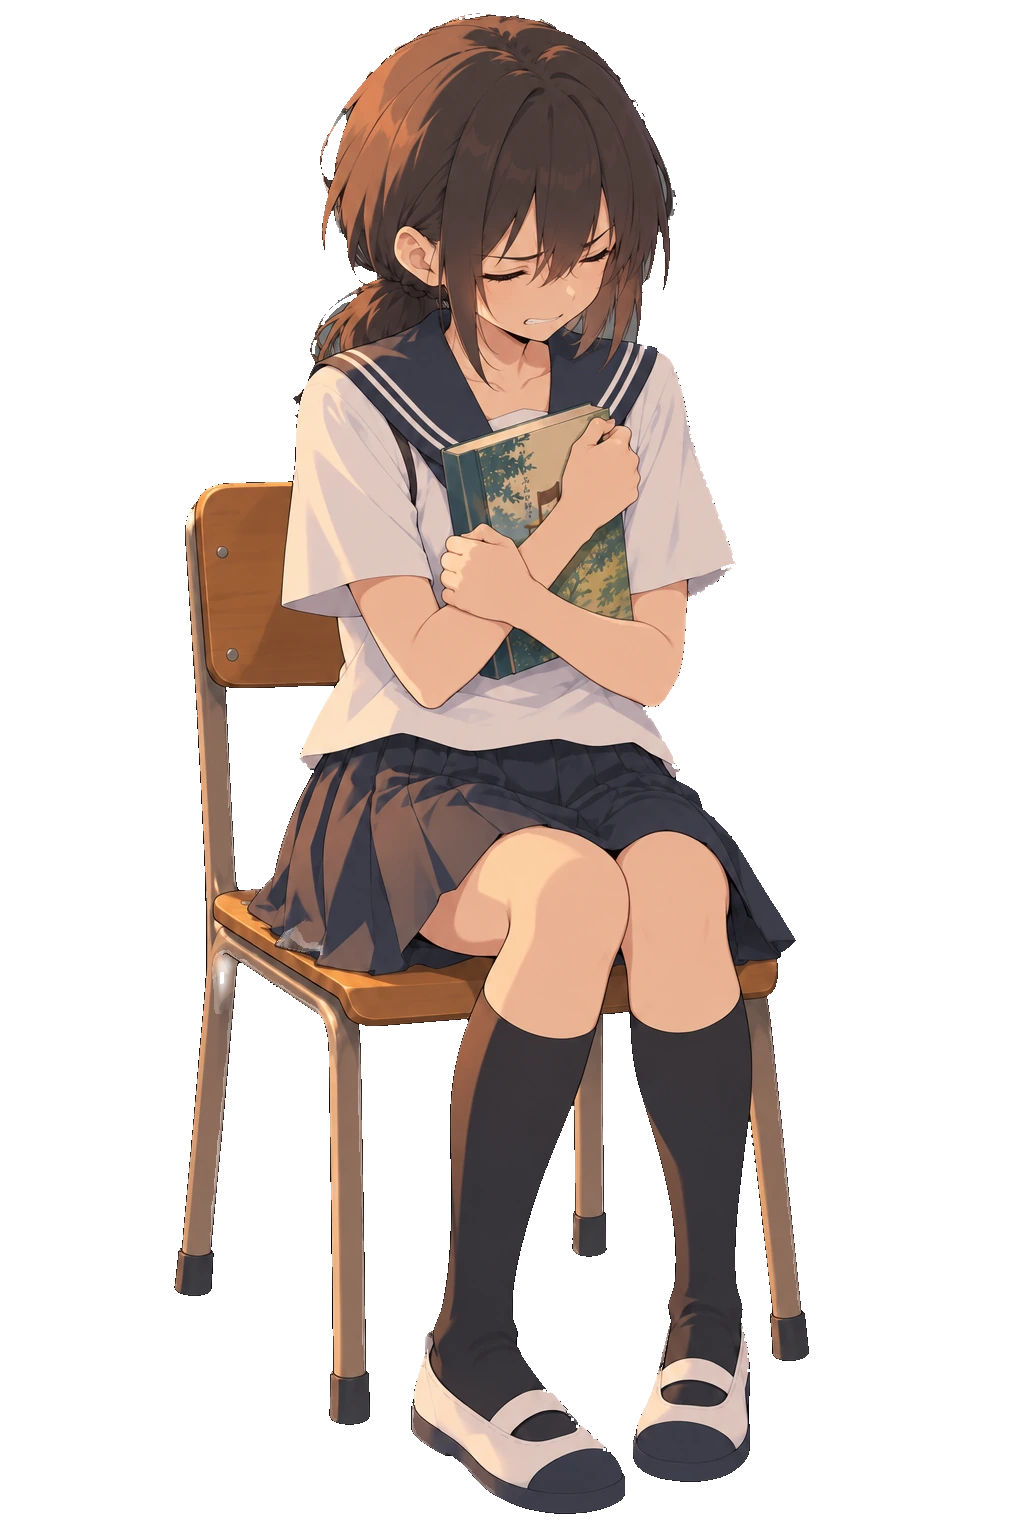
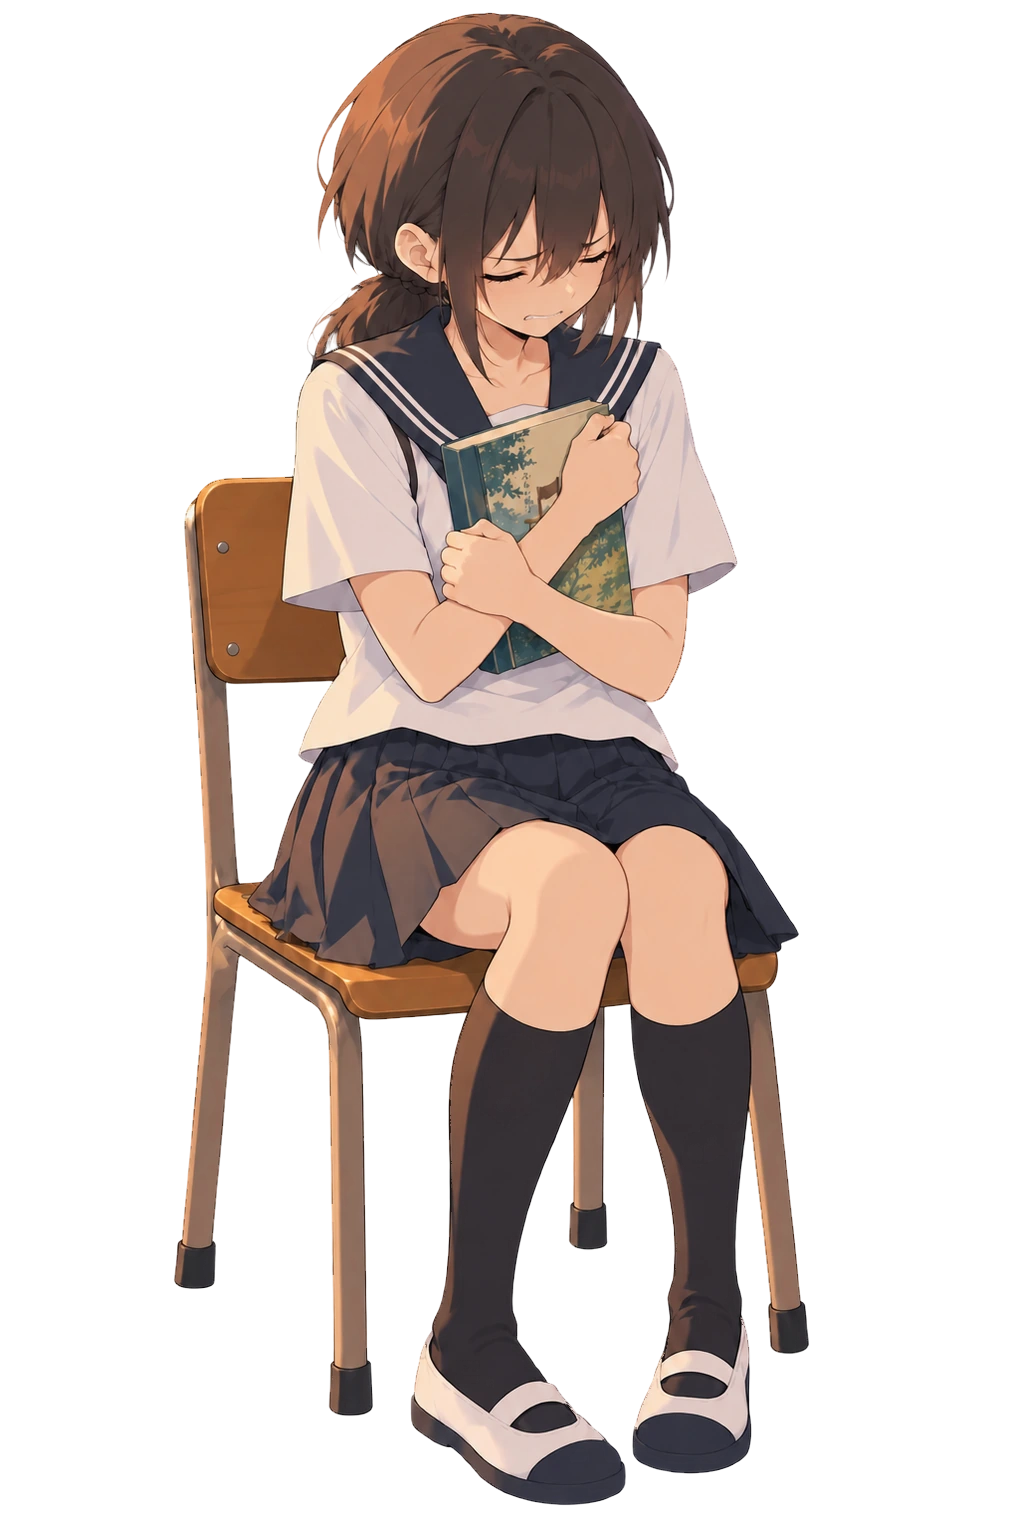
3章ミオ：台詞の順を入れ替えてひと呼吸を足す／本を握りしめる差分2種と眉をひそめる差分

diff --git a/index.html b/index.html
@@ -4172,7 +4172,7 @@
     sit: { src: 'mio_sit', style: 'left:12.2%;top:42.0%;height:46.5%' },
     // 消えたあと机に残る本（わすれものの絵と同じ本を、背景の机に合わせて置いた重ね絵）
     leftover: '', leftoverImg: 'l_left',
-    faces: { pale: 'mio_pale', normal: 'mio_bust', angry: 'mio_angry', surprise: 'mio_surprise', sad: 'mio_sad', down: 'mio_down', smile: 'mio_smile', grief: 'mio_grief', despair: 'mio_despair', reject: 'mio_reject', shadow: 'mio_despair', crySmile: 'mio_crysmile', bookHide: 'mio_bookhide', softSmile: 'mio_softsmile', stroke: 'mio_stroke', strokeDown: 'mio_strokedown', lap: 'mio_lap', clench: 'mio_clench' },   // lap：本を膝の上に下ろして小さく決意した顔／clench：本を強く握りしめ、目をぎゅっとつむった悲痛な顔
+    faces: { pale: 'mio_pale', normal: 'mio_bust', angry: 'mio_angry', surprise: 'mio_surprise', sad: 'mio_sad', down: 'mio_down', smile: 'mio_smile', grief: 'mio_grief', despair: 'mio_despair', reject: 'mio_reject', shadow: 'mio_despair', crySmile: 'mio_crysmile', bookHide: 'mio_bookhide', softSmile: 'mio_softsmile', stroke: 'mio_stroke', strokeDown: 'mio_strokedown', lap: 'mio_lap', clench: 'mio_clench', clenchDown: 'mio_clenchdown', frown: 'mio_frown' },   // clenchDown：本を握りしめて伏せ目／frown：眉をひそめてうつむく   // lap：本を膝の上に下ろして小さく決意した顔／clench：本を強く握りしめ、目をぎゅっとつむった悲痛な顔
     lost: '返却期限の過ぎた一冊',
     // 時計のアップ絵（針は重ねて描く）。体育館は ci_clock_gym（cx:868, cy:448, s:0.86）、保健室は ci_clock_infirmary（cx:782, cy:430, s:1.01）を使う。背景 infirmary の壁の時計は bgClock: { cx: 829, cy: 202, rx: 49, ry: 48 }
     clock: { img: 'ci_clock_library', cx: 778, cy: 411, s: 0.84 },
@@ -4518,12 +4518,14 @@
                  ['ミオ', '六月の、あの朝。グループの子に、チョークを渡されたの。『ミオも、書けるよね？』って。クラスのみんなが、こっちを見てた', 'sad'],
                  ['ミオ', '逆らったら、次は私。……それに、ツムギならきっと大丈夫だって、少しだけ思っちゃったの', 'down'],
                  ['ミオ', '考えるより先に、手が動いてた。……黒板に、書いた。『いてもいなくても同じ』って', 'sad'],
-                 ['ミオ', '中学のとき、私の机に書いた子たちのこと、ずっと許せなかった。私だけは、絶対にあんなことしないって思ってた', 'sad'],
-                 ['ミオ', '……チョークを持ったとき、きっと、あのときの子たちと同じ顔をしてた', 'sad'],
-                 ['', 'ミオは、本の背を、指が白くなるほど握りしめた。', 'clench'],
-                 ['ミオ', '中学のとき、誰も助けてくれなかった。だから、自分だけは自分の味方でいようって、決めてたの', 'clench'],
-                 ['ミオ', '……その自分に、裏切られた。もう、誰のことも……私のことも、信じられない', 'clench'],
                  ['ミオ', '何を感じてたのかも、もうわからない。……ただ、眉ひとつでも動かしたら、見つかって、目をつけられる気がしてた', 'sad'],
+                 ['', 'ミオは、そこで言葉を切った。本の表紙に目を落としたまま、しばらく、何も言わなかった。', 'down'],
+                 ['', '……遠いどこかを見ているような目だった。', 'down'],
+                 ['ミオ', '……私の机に、書いた子たちのこと。ずっと許せなかった。私だけは、絶対にあんなことしないって思ってた', 'sad'],
+                 ['ミオ', '……チョークを持ったとき、きっと、あのときの子たちと同じ顔をしてた', 'sad'],
+                 ['', 'ミオは、本の背を、指が白くなるほど握りしめた。', 'clenchDown'],
+                 ['ミオ', '中学のとき、誰も助けてくれなかった。だから、自分だけは自分の味方でいようって、決めてたの', 'clenchDown'],
+                 ['ミオ', '……その自分に、裏切られた。もう、誰のことも……私のことも、信じられない', 'clench'],
                  ['ミオ', '書き終わって席に戻ったころに、ツムギが教室に入ってきたの。黒板の字を見て、何も言わないで、そのまま帰った', 'sad'],
                  ['ミオ', '誰が書いたのかは、知らないまま。……次の日から、教室に来なくなった', 'sad'],
                  ['ミオ', '次の日の朝、当番で返却ポストを開けたら、この本が入ってたの。ツムギが借りてた本', 'sad'],
@@ -4533,7 +4535,7 @@
                  ['ミオ', '……今日、知らないアカウントから、私の机の写真が送られてきたの。……誰からかなんて、わかってるけど', 'sad'],
                  ['ミオ', '落書きは、写真にあとから書き足してあるだけ。教室の机は、きっときれいなまま。……先生に見せても、ただのいたずらで終わるの', 'sad'],
                  ['ミオ', '明日の終業式から、次は私なんだって', 'sad'],
-                 ['ミオ', 'お父さんにも、お母さんにも、言えない。中学のときのことも、話してないの。……心配、させたくないから', 'down'],
+                 ['ミオ', 'お父さんにも、お母さんにも、言えない。中学のときのことも、話してないの。……心配、させたくないから', 'frown'],
                  ['ミオ', 'それにね。さっき、保健室の前で、先生たちが話してるの聞いちゃった。ツムギ、病気がまた悪くなって、来週から入院するって', 'sad']]);
       await line(['ミオ', '……私のせいだ。全部', 'sad'], false);
       a = await ask([['やったことは消えないよ。ちゃんと謝らなきゃ', 'seiron'], ['チョークを渡されたとき、怖かったんだ', 'yori'],
